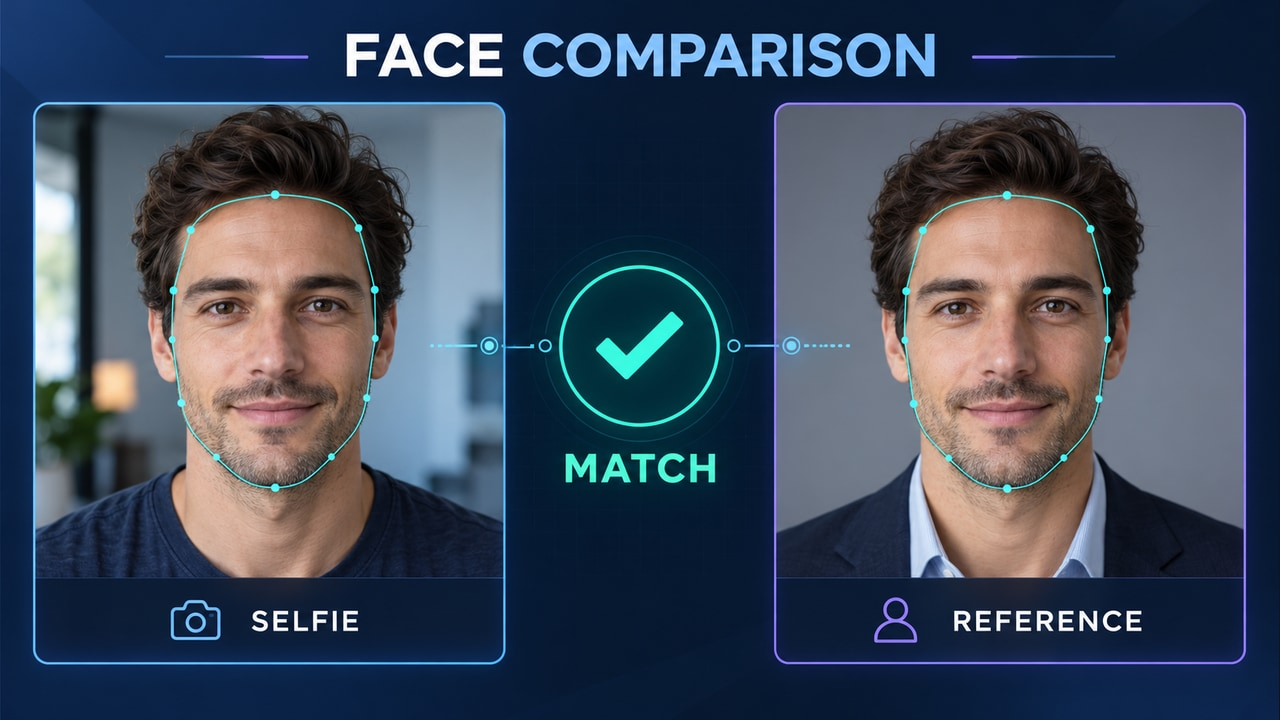
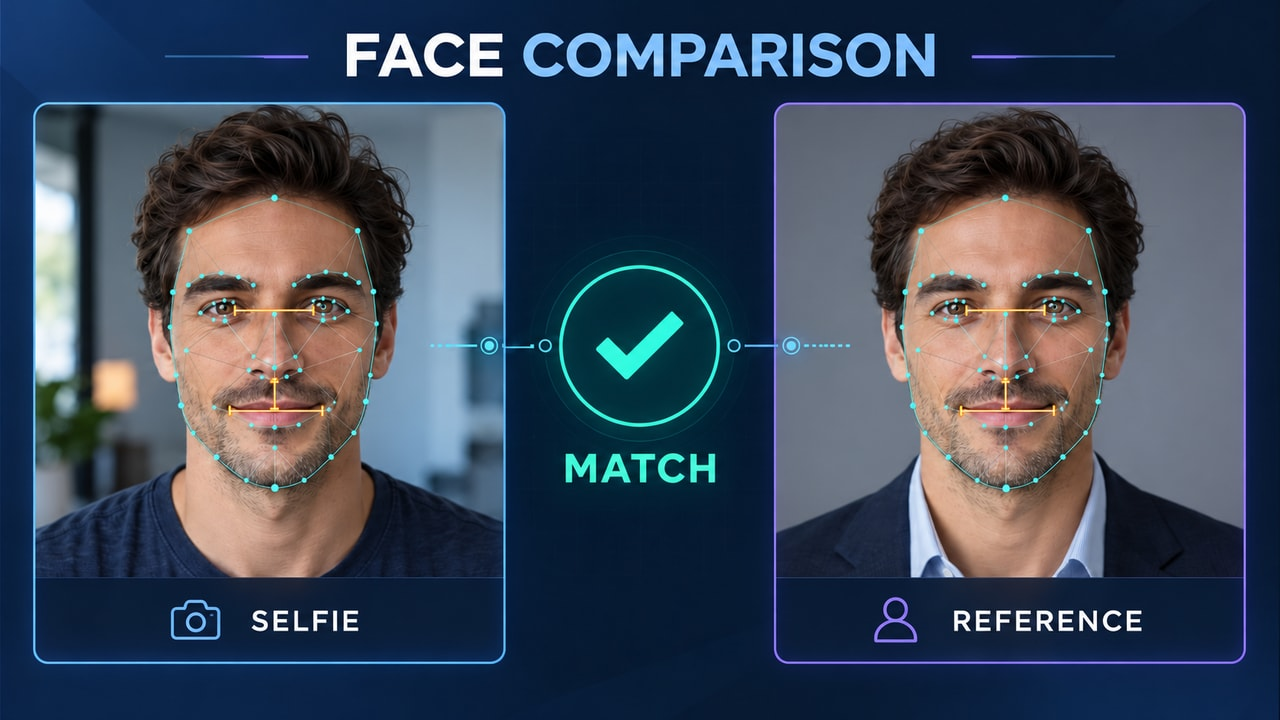
Show internal facial landmarks in identity concept frames

diff --git a/creative/firefly-demo-pairs-v3/PROMPTS.md b/creative/firefly-demo-pairs-v3/PROMPTS.md
@@ -16,12 +16,12 @@ Create an eight-second, silent, single-shot conceptual demo using BOTH supplied 
 
 ## identity — Onboarding de clientes en segundos
 
-Retratos sin comparar → Comparación completada.
+Retratos sin comparar → Comparación con landmarks internos y guías geométricas.
 
 ```text
 Create an eight-second, silent, single-shot conceptual demo using BOTH supplied reference frames: START is the exact initial state and END is the target completed state. Use the same locked 16:9 composition throughout. All explanation, UI graphics, tracking, labels and results belong inside the MP4; no external webpage overlay will be added. Animate the specific state changes below. Do not simply crossfade the whole first picture into the last picture. Keep the unchanged background, panel borders, typography, icons, source data and subjects stable; only the specified UI outputs or expression may change. No camera pan, zoom, crop, cut, new text, extra objects, invented results or ambient effects. Where words appear, reveal complete prewritten stable blocks from END rather than inventing or morphing letters. Reach the completed state by six seconds and hold it still through eight seconds.
 
-0-1s: establish both unannotated portraits. 1-3s: reveal the END frame's thin cyan contour and landmark points on SELFIE, beginning at the forehead and proceeding down the face boundary. 3-4.5s: reveal the corresponding contour on REFERENCE. Both photographs remain completely still; do not blink, turn the head, change identity or morph one face into another. 4.5-6s: resolve the central comparison circle into the green checkmark and the word MATCH from the END frame. 6-8s: hold the END frame. Do not add numerical confidence, liveness certification or security guarantees.
+0-1s: establish both unannotated START-frame portraits. 1-2.5s: acquire INTERNAL facial landmarks on SELFIE and then REFERENCE: eye corners and eyelid curves, eyebrows, nose bridge/tip/nostril edges, mouth corners and lip outline. Each cyan dot appears on its actual anatomical anchor; do not start with a boundary-only oval. 2.5-4s: reveal the END-frame fine triangulated connections across the eyes, cheeks, nose and mouth, then the subdued jaw/face boundary. The interior anatomy remains clearly readable beneath the mesh. Both portraits stay completely still, with unchanged identity, expression, eyes and skin texture. 4-5s: draw the END-frame three amber geometric guides on EACH face: horizontal eye-anchor span, vertical nose-to-upper-lip span and horizontal mouth-corner span, with small endpoint ticks. The guides are attached to the corresponding internal landmarks and stop at those anchors; no loose lines or numeric labels. These are illustrative geometric guides, not measured biometric scores or millimeter distances. 5-6s: reveal the central checkmark and MATCH only after both faces have their complete landmarks and guides. Do not suggest that geometric distances alone compute the identity result. 6-8s: hold the exact END frame, keeping all landmarks, internal connections and guides steady on the anatomy. No blinking, head turns, face morphing, floating landmarks, added measurements, percentages, liveness certification or security guarantees.
 ```
 
 

diff --git a/creative/firefly-demo-pairs-v3/IMAGE_PROMPTS.md b/creative/firefly-demo-pairs-v3/IMAGE_PROMPTS.md
@@ -1,6 +1,6 @@
 # Procedencia y prompts de imagen
 
-Herramienta: image_gen integrada, en modo edición con referencia. Se generaron 13 estados iniciales y un final nuevo para expresiones faciales; los otros 12 finales reutilizan los visuales v2 existentes. Los archivos se exportan a 1280×720 sin recorte. No son capturas reales del producto ni evidencia de resultados comerciales.
+Herramienta: image_gen integrada, en modo edición con referencia. Se generaron 13 estados iniciales y dos finales nuevos: sonrisa e identidad con landmarks internos; los otros 11 finales reutilizan los visuales v2 existentes. Los archivos se exportan a 1280×720 sin recorte. No son capturas reales del producto ni evidencia de resultados comerciales.
 
 
 ## sitechatbot — START
@@ -24,7 +24,7 @@ Use case: precise-object-edit. Edit target: the supplied existing final frame of
 ```
 
 
-END: reutiliza el final v2 sin regenerarlo; su procedencia original figura en manifest.json.
+END: sustituido por la edición 3.1 con landmarks internos, descrita al final de este documento.
 
 
 ## rag — START
@@ -161,3 +161,11 @@ Use case: precise-object-edit. Edit target: the supplied existing final frame of
 
 
 END: reutiliza el final v2 sin regenerarlo; su procedencia original figura en manifest.json.
+
+## identity — END corregido, revisión 3.1
+
+Sustituye el final v2 reutilizado por esta edición nueva con landmarks internos.
+
+```text
+Use case: precise-object-edit, identity-preserve. Edit target: supplied FACE COMPARISON final-frame image. Replace the inadequate contour-only facial annotations with anatomically placed INTERNAL facial landmarks and restrained geometric distance guides on BOTH faces. Preserve the exact same fictional adult man's identity, facial expression, skin texture, hair, eyes, clothing, portrait sizes/positions, card borders, navy background, full 16:9 composition, heading FACE COMPARISON, center check/MATCH, bottom SELFIE and REFERENCE labels and all other interface artwork. Overlay only fine cyan points and thin connecting segments attached accurately to: inner/outer eye corners, eyelid curves, eyebrows, nose bridge, nose tip and nostril edges, lip outline/mouth corners, cheek anchors and jaw/chin. Include a small coherent triangular landmark network across the INSIDE of each face; do not merely outline the face or draw random triangles on the hair/background. Make the eyes, nose and mouth clearly readable beneath the delicate graphics. Add three thin warm-amber measurement guides with tiny endpoint ticks on each face: between eye-center anchor points, nose tip down to the upper-lip center, and across the mouth corners. These guides must sit directly on the correct anatomy and correspond across both portraits. No numerical distances, millimeters, percentages, confidence values, extra letters or labels. Keep a very faint facial boundary if needed but INTERNAL features and their relative geometry are the visual focus. Professional, precise and restrained: no laser light, heavy glow, scan band, obscuring thick lines, moving subjects or extra panels. The photo and UI must remain unchanged; only the facial overlay is replaced. One single full-frame END image, no diptych.
+```

diff --git a/creative/firefly-demo-pairs-v3/README.md b/creative/firefly-demo-pairs-v3/README.md
@@ -1,6 +1,6 @@
-# Firefly — 13 parejas de frames v3
+# Firefly — 13 parejas de frames v3.1
 
-Este paquete sustituye el flujo de una sola imagen inicial por **13 parejas completas: 26 JPG y 13 prompts de transición**. Se generaron 13 inicios nuevos a partir de los visuales existentes y un final nuevo para la sonrisa. Los otros 12 finales reutilizan los visuales v2: no se afirma que los 26 sean generaciones nuevas.
+Este paquete sustituye el flujo de una sola imagen inicial por **13 parejas completas: 26 JPG y 13 prompts de transición**. Se generaron 13 inicios nuevos a partir de los visuales existentes y dos finales nuevos: sonrisa y landmarks internos de identidad. Los otros 11 finales reutilizan los visuales v2: no se afirma que los 26 sean generaciones nuevas.
 
 Cada carpeta contiene **start.jpg**, **end.jpg**, **firefly-prompt.txt** y README.md. Los nombres y la estructura son iguales para todos los casos.
 
@@ -17,7 +17,7 @@ Adobe documenta First/Last para Veo 3.1 y especifica 16:9 y ocho segundos para r
 
 ## Qué debe animarse
 
-El chatbot pasa de escribir a mostrar respuesta/citas; identidad adquiere contornos y muestra la comparación; RAG recupera fuentes y construye una respuesta citada; transcripción revela frases por hablante; herramientas producen un reporte; detección dibuja tres cajas y cuenta; el rostro pasa de neutro a sonrisa con seguimiento; factura completa campos; TTS genera una onda; voz crea una reserva; anomalías generan una revisión; pronóstico dibuja el futuro; imágenes completan variantes.
+El chatbot pasa de escribir a mostrar respuesta/citas; identidad adquiere landmarks internos, malla y guías geométricas y muestra la comparación; RAG recupera fuentes y construye una respuesta citada; transcripción revela frases por hablante; herramientas producen un reporte; detección dibuja tres cajas y cuenta; el rostro pasa de neutro a sonrisa con seguimiento; factura completa campos; TTS genera una onda; voz crea una reserva; anomalías generan una revisión; pronóstico dibuja el futuro; imágenes completan variantes.
 
 Las transiciones deben mostrar esas acciones, sin disolver la imagen completa. El fondo, textos ya visibles, geometría de paneles y datos fuente permanecen estables. Los conectores del chatbot no persiguen objetos y el cerebro no se transforma.
 

diff --git a/docs/FIREFLY_CLIPS.md b/docs/FIREFLY_CLIPS.md
@@ -1,6 +1,6 @@
 # Firefly clips — parejas de inicio y fin v3
 
-**Guía vigente:** [13 parejas v3](../creative/firefly-demo-pairs-v3/README.md) y [13 prompts de transición](../creative/firefly-demo-pairs-v3/PROMPTS.md). Cada caso tiene start.jpg para First y end.jpg para Last, 1280×720, más un prompt con acciones hasta el resultado y dos segundos de pausa final. Se generaron 13 inicios nuevos y un final nuevo de sonrisa; los otros 12 finales reutilizan v2. Las 26 imágenes fueron revisadas como parejas. No son 26 generaciones nuevas.
+**Guía vigente:** [13 parejas v3](../creative/firefly-demo-pairs-v3/README.md) y [13 prompts de transición](../creative/firefly-demo-pairs-v3/PROMPTS.md). Cada caso tiene start.jpg para First y end.jpg para Last, 1280×720, más un prompt con acciones hasta el resultado y dos segundos de pausa final. Revisión 3.1: se generaron 13 inicios y dos finales nuevos (sonrisa y landmarks internos de identidad); los otros 11 finales reutilizan v2. Las 26 imágenes fueron revisadas como parejas. No son 26 generaciones nuevas.
 
 El flujo anterior de dejar Last vacío y empezar mostrando todos los resultados queda sustituido. El chatbot ahora tiene puntos de escritura, entrada de respuesta y aparición de citas; los demás casos también cambian de estado, en vez de limitarse a resaltes. Mantener 16:9, ocho segundos y Audio off. Video Firefly, revisión temporal e integración en la web siguen pendientes.
 

diff --git a/creative/firefly-demo-pairs-v3/identity/README.md b/creative/firefly-demo-pairs-v3/identity/README.md
@@ -2,7 +2,7 @@
 
 **Inicio:** Retratos sin comparar.
 
-**Final:** Comparación completada.
+**Final:** Landmarks internos en ojos, cejas, nariz, labios y mejillas, con malla ligera y tres guías geométricas por rostro; comparación completada.
 
 ![Inicio](start.jpg)
 ![Final](end.jpg)
@@ -12,3 +12,9 @@ En Firefly: Frames → First → start.jpg; Last → end.jpg. Usa firefly-prompt
 La transición tiene acciones nuevas y un resultado visible; no debe ser una disolución de toda la imagen ni limitarse a resaltes. Sigue los tiempos y restricciones del prompt. Revisa identidad/geometría, texto, fuentes, valores y sincronización durante todo el video. Los frames orientan los extremos, pero no garantizan una interpolación correcta.
 
 **Estado:** frames preparados; video Firefly pendiente de generación y revisión temporal.
+
+## Revisión 3.1 — landmarks internos
+
+El final sustituye el contorno aislado por puntos internos, conexiones trianguladas y guías entre anclajes de ojos, nariz/labio y boca. El inicio no cambia. El prompt adquiere primero los landmarks, añade guías y después presenta MATCH.
+
+Las guías ámbar no son mediciones reales ni valores en milímetros. La UI de la demo describe su puntaje como similitud coseno entre embeddings faciales; esta ilustración no afirma que el resultado se calcule solo con distancias geométricas. No se inventan puntajes. El video corregido todavía debe generarse y validarse.

diff --git a/docs/PENDING_WORK.md b/docs/PENDING_WORK.md
@@ -14,7 +14,7 @@
 
 - Estado: **13 parejas completas (26 JPG) y 13 prompts** en `creative/firefly-demo-pairs-v3/`; sustituyen las instrucciones de una sola imagen v2/v2.1.
 - Cada carpeta contiene `start.jpg`, `end.jpg` y `firefly-prompt.txt`: subir a Frames → First/Last, 16:9, 720p, ocho segundos, 24 FPS y Audio off.
-- Se generaron 13 inicios nuevos y un final nuevo de sonrisa; 12 finales reutilizan los visuales existentes. Imágenes revisadas; interpolación/video todavía sin verificar.
+- Revisión 3.1: 13 inicios nuevos y dos finales nuevos (sonrisa e identidad con landmarks internos); 11 finales reutilizan los visuales existentes. Imágenes revisadas; interpolación/video todavía sin verificar.
 - Generar primero un piloto; revisar texto, identidad, objetos, cajas/malla, campos, conteos, citas y composición durante todo el clip. No aceptar una simple disolución ni solo resaltes. Explicación completa dentro del MP4.
 - Codificar sin recorte con el encoder existente: 640×360, ocho segundos, sin audio, faststart, máximo 750 KB. El pase técnico no certifica calidad visual.
 - Integrar solo archivos aprobados: sin src/source inicial, hover/touch solicitado, un clip activo, pausa fuera de pantalla, reduced motion/data saver y poster de respaldo. Usar contain y desactivar overlays explicativos CSS en modo video.
